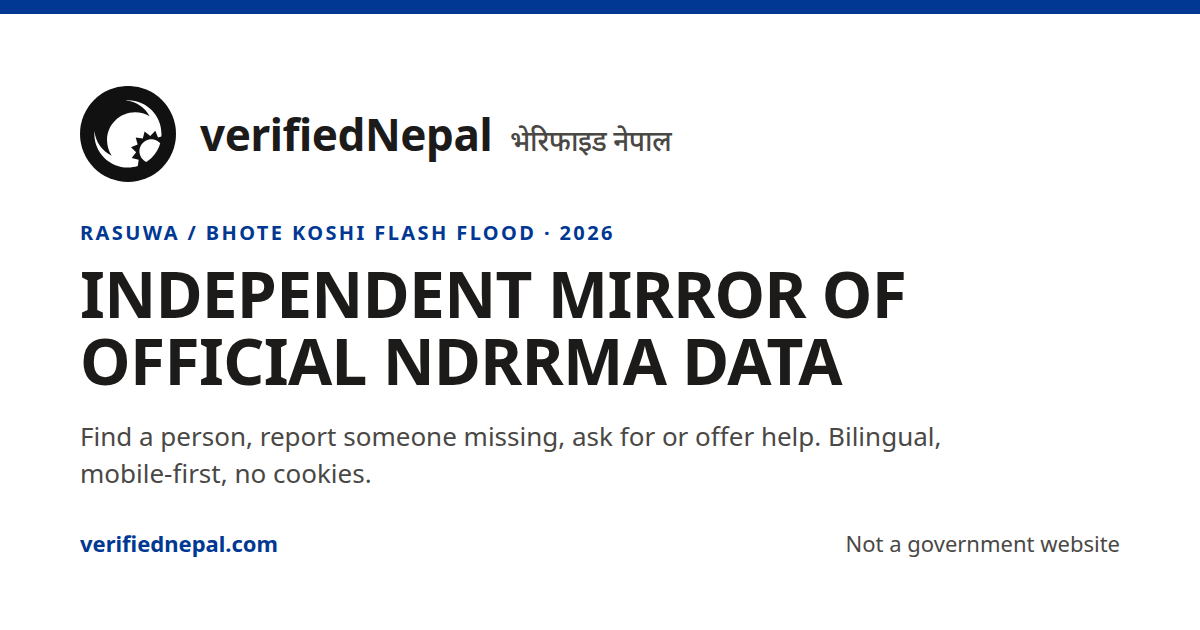
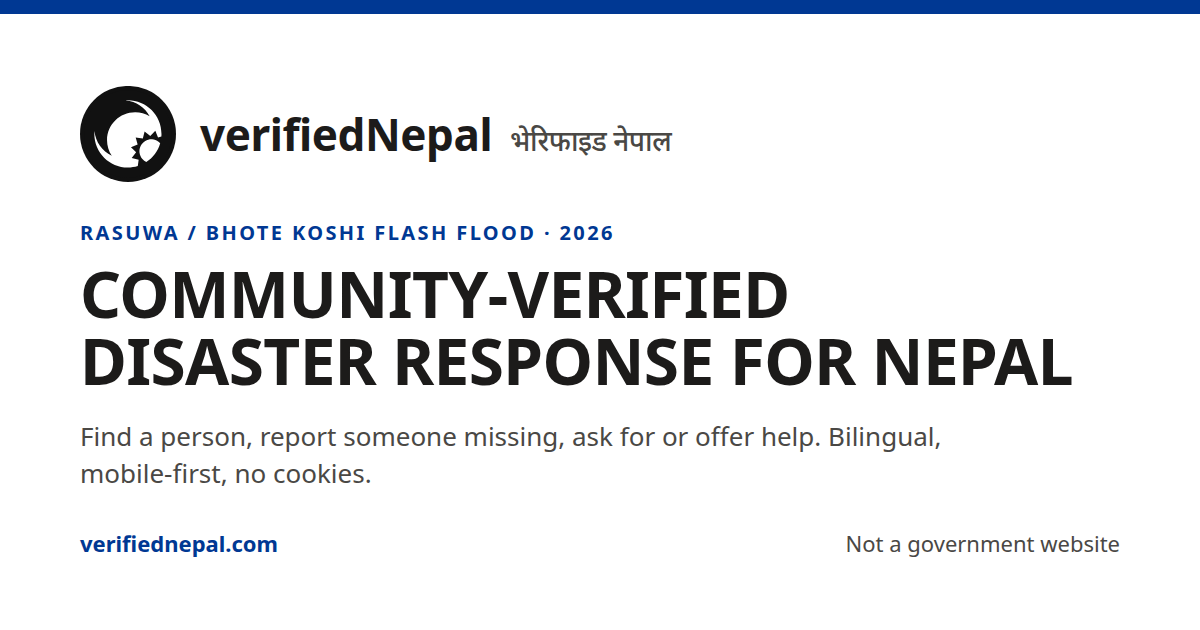
feat(seo): distinct share cards for poster, missing, get-help, give-help, drop-centers, projects
Each public page now gets its own catchy Open Graph/Twitter card instead of
falling back to the generic site card, matching the pattern already used by
/articles/:id and /climate. Project detail pages use their own published
cover photo when one exists; drop-center detail pages reuse the generic
drop-centers card since centers have no photos. Also updates the main card's
headline and extracts the shared HTMLRewriter logic (applyMeta/apiBase) out
of articles/[id].ts and climate.ts to avoid duplicating it across 8 files.

Claude-Session: https://claude.ai/code/session_01GmR36vwUtDH41y3Ly4qzz9

Changed region(s): [[0.0617, 0.4222, 0.8942, 0.6333]]

diff --git a/src/lib/og-meta.ts b/src/lib/og-meta.ts
@@ -13,6 +13,18 @@ export interface DispatchLike {
   cover?: { url?: string; caption?: string };
 }
 
+export interface ProjectLike {
+  title: Localized;
+  description: Localized;
+  photos?: Array<{ url: string; caption?: string; status: "pending" | "published" }>;
+}
+
+export interface CenterLike {
+  name: string;
+  district: string;
+  status: "open" | "paused" | "closed";
+}
+
 export interface ShareMeta {
   title: string;
   description: string;
@@ -35,6 +47,57 @@ export function dispatchMeta(item: DispatchLike): ShareMeta {
     ? { title: `${title} · verifiedNepal`, description, image, imageAlt: item.cover?.caption?.trim() || title }
     : { title: `${title} · verifiedNepal`, description };
 }
+
+export function projectMeta(project: ProjectLike): ShareMeta {
+  const title = text(project.title).trim() || "Community project";
+  const description = text(project.description).replace(/\s+/g, " ").trim().slice(0, 200);
+  const cover = project.photos?.find((photo) => photo.status === "published" && photo.url?.trim());
+  return cover
+    ? { title: `${title} · verifiedNepal`, description, image: cover.url.trim(), imageAlt: cover.caption?.trim() || title }
+    : { title: `${title} · verifiedNepal`, description };
+}
+
+export function centerMeta(center: CenterLike): ShareMeta {
+  const statusWord = center.status === "open" ? "Open" : center.status === "paused" ? "Paused" : "Closed";
+  return {
+    title: `${center.name} · verifiedNepal`,
+    description: `${statusWord} drop center in ${center.district}. See live stock and recent activity, or bring goods to donate.`,
+  };
+}
+
+/** Static per-page share cards for public pages with no per-request data. Image paths are site-relative. */
+export const STATIC_PAGE_META: Record<string, ShareMeta> = {
+  poster: {
+    title: "Missing-person posters · verifiedNepal",
+    description: "Make a bilingual missing-person poster in minutes and share it — or browse posters and call if you recognise someone.",
+    image: "/brand/og-poster.png",
+  },
+  missing: {
+    title: "Someone missing? Do this first · verifiedNepal",
+    description: "A volunteer-written guide to the official channels and helplines, in the order that helps most.",
+    image: "/brand/og-missing.png",
+  },
+  getHelp: {
+    title: "Get help — register a need · verifiedNepal",
+    description: "Register a need in minutes — a moderator reviews it before anything goes public. Your name stays masked.",
+    image: "/brand/og-get-help.png",
+  },
+  giveHelp: {
+    title: "Give help · verifiedNepal",
+    description: "Verified requests with masked identities — respond to a need or register an offer, connected through a moderator.",
+    image: "/brand/og-give-help.png",
+  },
+  dropCenters: {
+    title: "Drop centers · verifiedNepal",
+    description: "Live stock and activity from independent relief centers across Nepal — food, water and shelter goods, logged in the open.",
+    image: "/brand/og-drop-centers.png",
+  },
+  projects: {
+    title: "Community projects · verifiedNepal",
+    description: "Verified infrastructure projects — tuin, bridges, trails, water and schools. Money goes straight to local committees.",
+    image: "/brand/og-projects.png",
+  },
+};
 
 export function climateMeta(): ShareMeta {
   const countryList = countries as typeof countries &

diff --git a/docs/design/og-poster.html b/docs/design/og-poster.html
@@ -2,20 +2,20 @@
 <link href="https://fonts.googleapis.com/css2?family=Noto+Sans:wght@400;500;700&family=Noto+Sans+Devanagari:wght@500&display=swap" rel="stylesheet">
 <style>
 html,body{margin:0;width:1200px;height:630px;background:#fff;font-family:"Noto Sans","Noto Sans Devanagari",system-ui,sans-serif;color:#1C1B1A}
-.card{box-sizing:border-box;width:1200px;height:630px;padding:72px 80px;display:flex;flex-direction:column;justify-content:space-between;border-top:14px solid #003893}
+.card{box-sizing:border-box;width:1200px;height:630px;padding:72px 80px;display:flex;flex-direction:column;justify-content:space-between;border-top:14px solid #B82020}
 .brand{display:flex;align-items:center;gap:24px}
 .brand img{width:96px;height:96px}
 .wordmark{font-size:44px;font-weight:700;letter-spacing:-.01em}
 .wordmark span{font-family:"Noto Sans Devanagari";font-weight:500;font-size:28px;color:#4a4845;margin-left:18px}
-.kicker{font-size:20px;font-weight:700;letter-spacing:.12em;color:#003893;text-transform:uppercase;margin-bottom:14px}
+.kicker{font-size:20px;font-weight:700;letter-spacing:.12em;color:#B82020;text-transform:uppercase;margin-bottom:14px}
 h1{font-size:64px;line-height:1.05;font-weight:700;margin:0 0 24px;text-transform:uppercase;letter-spacing:-.01em;max-width:1000px}
 p{font-size:26px;line-height:1.4;color:#4a4845;margin:0;max-width:920px}
 .foot{display:flex;justify-content:space-between;font-size:22px;color:#4a4845}
 .foot b{color:#003893;font-weight:700}
 </style></head><body><div class="card">
 <div class="brand"><img src="../../public/brand/logo-mark.svg"><div class="wordmark">verifiedNepal<span>भेरिफाइड नेपाल</span></div></div>
-<div><div class="kicker">Rasuwa / Bhote Koshi flash flood · 2026</div>
-<h1>Community-verified disaster response for Nepal</h1>
-<p>Find a person, report someone missing, ask for or offer help. Bilingual, mobile-first, no cookies.</p></div>
+<div><div class="kicker">Missing-person posters</div>
+<h1>Every face has a name. Help find it.</h1>
+<p>Make a bilingual missing-person poster in minutes and share it — or browse posters and call if you recognise someone.</p></div>
 <div class="foot"><b>verifiednepal.com</b><span>Not a government website</span></div>
 </div></body></html>

diff --git a/docs/design/og-get-help.html b/docs/design/og-get-help.html
@@ -2,20 +2,20 @@
 <link href="https://fonts.googleapis.com/css2?family=Noto+Sans:wght@400;500;700&family=Noto+Sans+Devanagari:wght@500&display=swap" rel="stylesheet">
 <style>
 html,body{margin:0;width:1200px;height:630px;background:#fff;font-family:"Noto Sans","Noto Sans Devanagari",system-ui,sans-serif;color:#1C1B1A}
-.card{box-sizing:border-box;width:1200px;height:630px;padding:72px 80px;display:flex;flex-direction:column;justify-content:space-between;border-top:14px solid #003893}
+.card{box-sizing:border-box;width:1200px;height:630px;padding:72px 80px;display:flex;flex-direction:column;justify-content:space-between;border-top:14px solid #B82020}
 .brand{display:flex;align-items:center;gap:24px}
 .brand img{width:96px;height:96px}
 .wordmark{font-size:44px;font-weight:700;letter-spacing:-.01em}
 .wordmark span{font-family:"Noto Sans Devanagari";font-weight:500;font-size:28px;color:#4a4845;margin-left:18px}
-.kicker{font-size:20px;font-weight:700;letter-spacing:.12em;color:#003893;text-transform:uppercase;margin-bottom:14px}
+.kicker{font-size:20px;font-weight:700;letter-spacing:.12em;color:#B82020;text-transform:uppercase;margin-bottom:14px}
 h1{font-size:64px;line-height:1.05;font-weight:700;margin:0 0 24px;text-transform:uppercase;letter-spacing:-.01em;max-width:1000px}
 p{font-size:26px;line-height:1.4;color:#4a4845;margin:0;max-width:920px}
 .foot{display:flex;justify-content:space-between;font-size:22px;color:#4a4845}
 .foot b{color:#003893;font-weight:700}
 </style></head><body><div class="card">
 <div class="brand"><img src="../../public/brand/logo-mark.svg"><div class="wordmark">verifiedNepal<span>भेरिफाइड नेपाल</span></div></div>
-<div><div class="kicker">Rasuwa / Bhote Koshi flash flood · 2026</div>
-<h1>Community-verified disaster response for Nepal</h1>
-<p>Find a person, report someone missing, ask for or offer help. Bilingual, mobile-first, no cookies.</p></div>
+<div><div class="kicker">Need support?</div>
+<h1>Ask for help. No account needed.</h1>
+<p>Register a need in minutes — a moderator reviews it before anything goes public. Your name stays masked.</p></div>
 <div class="foot"><b>verifiednepal.com</b><span>Not a government website</span></div>
 </div></body></html>

diff --git a/docs/design/og-missing.html b/docs/design/og-missing.html
@@ -2,20 +2,20 @@
 <link href="https://fonts.googleapis.com/css2?family=Noto+Sans:wght@400;500;700&family=Noto+Sans+Devanagari:wght@500&display=swap" rel="stylesheet">
 <style>
 html,body{margin:0;width:1200px;height:630px;background:#fff;font-family:"Noto Sans","Noto Sans Devanagari",system-ui,sans-serif;color:#1C1B1A}
-.card{box-sizing:border-box;width:1200px;height:630px;padding:72px 80px;display:flex;flex-direction:column;justify-content:space-between;border-top:14px solid #003893}
+.card{box-sizing:border-box;width:1200px;height:630px;padding:72px 80px;display:flex;flex-direction:column;justify-content:space-between;border-top:14px solid #B82020}
 .brand{display:flex;align-items:center;gap:24px}
 .brand img{width:96px;height:96px}
 .wordmark{font-size:44px;font-weight:700;letter-spacing:-.01em}
 .wordmark span{font-family:"Noto Sans Devanagari";font-weight:500;font-size:28px;color:#4a4845;margin-left:18px}
-.kicker{font-size:20px;font-weight:700;letter-spacing:.12em;color:#003893;text-transform:uppercase;margin-bottom:14px}
+.kicker{font-size:20px;font-weight:700;letter-spacing:.12em;color:#B82020;text-transform:uppercase;margin-bottom:14px}
 h1{font-size:64px;line-height:1.05;font-weight:700;margin:0 0 24px;text-transform:uppercase;letter-spacing:-.01em;max-width:1000px}
 p{font-size:26px;line-height:1.4;color:#4a4845;margin:0;max-width:920px}
 .foot{display:flex;justify-content:space-between;font-size:22px;color:#4a4845}
 .foot b{color:#003893;font-weight:700}
 </style></head><body><div class="card">
 <div class="brand"><img src="../../public/brand/logo-mark.svg"><div class="wordmark">verifiedNepal<span>भेरिफाइड नेपाल</span></div></div>
-<div><div class="kicker">Rasuwa / Bhote Koshi flash flood · 2026</div>
-<h1>Community-verified disaster response for Nepal</h1>
-<p>Find a person, report someone missing, ask for or offer help. Bilingual, mobile-first, no cookies.</p></div>
+<div><div class="kicker">Someone missing?</div>
+<h1>The first steps that actually help</h1>
+<p>A volunteer-written guide to the official channels and helplines, in the order that helps most.</p></div>
 <div class="foot"><b>verifiednepal.com</b><span>Not a government website</span></div>
 </div></body></html>

diff --git a/functions/articles/[id].ts b/functions/articles/[id].ts
@@ -4,14 +4,9 @@
 // falls back to the untouched page. Wrangler picks this folder up automatically
 // on `pages deploy` (see infra/deploy.sh).
 import { dispatchMeta } from "../../src/lib/og-meta";
+import { apiBase, applyMeta } from "../_shared/meta";
 
 type Ctx = { request: Request; params: { id: string }; next: () => Promise<Response> };
-
-function apiBase(hostname: string): string {
-  return hostname === "verifiednepal.com" || hostname === "www.verifiednepal.com"
-    ? "https://api.prod.verifiednepal.com"
-    : "https://api.dev.verifiednepal.com";
-}
 
 export const onRequestGet = async ({ request, params, next }: Ctx): Promise<Response> => {
   const page = await next();
@@ -29,21 +24,5 @@ export const onRequestGet = async ({ request, params, next }: Ctx): Promise<Resp
   }
   const meta = dispatchMeta(item);
   const canonical = `${url.origin}/articles/${encodeURIComponent(params.id)}`;
-  const set = (attr: string, value: string) => ({ element: (e: Element) => e.setAttribute(attr, value) });
-  const rewriter = new HTMLRewriter()
-    .on("title", { element: (e: Element) => e.setInnerContent(meta.title) })
-    .on('meta[property="og:title"], meta[name="twitter:title"]', set("content", meta.title))
-    .on('meta[name="description"], meta[property="og:description"], meta[name="twitter:description"]', set("content", meta.description))
-    .on('meta[property="og:url"]', set("content", canonical))
-    .on('meta[property="og:type"]', set("content", "article"))
-    .on('link[rel="canonical"]', set("href", canonical));
-  if (meta.image) {
-    rewriter
-      .on('meta[property="og:image"]', set("content", meta.image))
-      .on('meta[property="og:image:alt"]', set("content", meta.imageAlt || meta.title))
-      .on('meta[name="twitter:image"]', set("content", meta.image))
-      .on('meta[name="twitter:card"]', set("content", "summary_large_image"))
-      .on('meta[property="og:image:width"], meta[property="og:image:height"]', { element: (e: Element) => e.remove() });
-  }
-  return rewriter.transform(page);
+  return applyMeta(page, meta, canonical, "article");
 };

diff --git a/functions/_shared/meta.ts b/functions/_shared/meta.ts
@@ -1,0 +1,35 @@
+// Shared by every Pages Function that rewrites index.html's share metadata.
+// Underscore-prefixed folder: Cloudflare Pages excludes it from routing, so this
+// is import-only, never a route of its own.
+import type { ShareMeta } from "../../src/lib/og-meta";
+
+export function apiBase(hostname: string): string {
+  return hostname === "verifiednepal.com" || hostname === "www.verifiednepal.com"
+    ? "https://api.prod.verifiednepal.com"
+    : "https://api.dev.verifiednepal.com";
+}
+
+/** Resolves a site-relative image path (e.g. "/brand/og-poster.png") to an absolute URL. */
+export function withOrigin(meta: ShareMeta, origin: string): ShareMeta {
+  return meta.image && meta.image.startsWith("/") ? { ...meta, image: `${origin}${meta.image}` } : meta;
+}
+
+export function applyMeta(page: Response, meta: ShareMeta, canonical: string, type: "website" | "article" = "website"): Response {
+  const set = (attr: string, value: string) => ({ element: (e: Element) => e.setAttribute(attr, value) });
+  const rewriter = new HTMLRewriter()
+    .on("title", { element: (e: Element) => e.setInnerContent(meta.title) })
+    .on('meta[property="og:title"], meta[name="twitter:title"]', set("content", meta.title))
+    .on('meta[name="description"], meta[property="og:description"], meta[name="twitter:description"]', set("content", meta.description))
+    .on('meta[property="og:url"]', set("content", canonical))
+    .on('meta[property="og:type"]', set("content", type))
+    .on('link[rel="canonical"]', set("href", canonical));
+  if (meta.image) {
+    rewriter
+      .on('meta[property="og:image"]', set("content", meta.image))
+      .on('meta[property="og:image:alt"]', set("content", meta.imageAlt || meta.title))
+      .on('meta[name="twitter:image"]', set("content", meta.image))
+      .on('meta[name="twitter:card"]', set("content", "summary_large_image"))
+      .on('meta[property="og:image:width"], meta[property="og:image:height"]', { element: (e: Element) => e.remove() });
+  }
+  return rewriter.transform(page);
+}

diff --git a/src/lib/og-meta.test.ts b/src/lib/og-meta.test.ts
@@ -1,6 +1,6 @@
 import assert from "node:assert/strict";
 import test from "node:test";
-import { climateMeta, dispatchMeta } from "./og-meta.ts";
+import { centerMeta, climateMeta, dispatchMeta, projectMeta } from "./og-meta.ts";
 
 test("dispatchMeta builds a title and a 200-char excerpt with author", () => {
   const meta = dispatchMeta({
@@ -38,4 +38,29 @@ test("climateMeta includes the computed share and Nepal in the description", () 
   const meta = climateMeta();
   assert.match(meta.title, /%/);
   assert.match(meta.description, /Nepal/);
+});
+
+test("projectMeta uses the first published photo, skipping pending ones", () => {
+  const meta = projectMeta({
+    title: "Tuin over the Bhote Koshi",
+    description: "A cable crossing for three wards.",
+    photos: [
+      { url: "https://cdn.example/pending.jpg", status: "pending" },
+      { url: " https://cdn.example/published.jpg ", caption: "The finished crossing", status: "published" },
+    ],
+  });
+  assert.equal(meta.title, "Tuin over the Bhote Koshi · verifiedNepal");
+  assert.equal(meta.image, "https://cdn.example/published.jpg");
+  assert.equal(meta.imageAlt, "The finished crossing");
+});
+
+test("projectMeta has no image when there is no published photo", () => {
+  const meta = projectMeta({ title: "A project", description: "Details", photos: [{ url: "https://cdn.example/p.jpg", status: "pending" }] });
+  assert.equal(meta.image, undefined);
+});
+
+test("centerMeta names the district and open/paused/closed status", () => {
+  assert.match(centerMeta({ name: "Dhunche Bazaar", district: "Rasuwa", status: "open" }).description, /^Open drop center in Rasuwa\./);
+  assert.match(centerMeta({ name: "X", district: "Y", status: "paused" }).description, /^Paused/);
+  assert.match(centerMeta({ name: "X", district: "Y", status: "closed" }).description, /^Closed/);
 });

diff --git a/functions/climate.ts b/functions/climate.ts
@@ -1,6 +1,7 @@
 // Cloudflare Pages Function for /climate. Rewrites the static page metadata so
 // shared climate links preview the computed climate case instead of the site card.
 import { climateMeta } from "../src/lib/og-meta";
+import { applyMeta } from "./_shared/meta";
 
 type Ctx = { request: Request; next: () => Promise<Response> };
 
@@ -10,13 +11,5 @@ export const onRequestGet = async ({ request, next }: Ctx): Promise<Response> =>
   const url = new URL(request.url);
   const meta = climateMeta();
   const canonical = `${url.origin}/climate`;
-  const set = (attr: string, value: string) => ({ element: (e: Element) => e.setAttribute(attr, value) });
-  return new HTMLRewriter()
-    .on("title", { element: (e: Element) => e.setInnerContent(meta.title) })
-    .on('meta[property="og:title"], meta[name="twitter:title"]', set("content", meta.title))
-    .on('meta[name="description"], meta[property="og:description"], meta[name="twitter:description"]', set("content", meta.description))
-    .on('meta[property="og:url"]', set("content", canonical))
-    .on('meta[property="og:type"]', set("content", "website"))
-    .on('link[rel="canonical"]', set("href", canonical))
-    .transform(page);
+  return applyMeta(page, meta, canonical, "website");
 };

diff --git a/functions/drop-centers/[id].ts b/functions/drop-centers/[id].ts
@@ -1,0 +1,27 @@
+// Cloudflare Pages Function for /drop-centers/:id. Rewrites title/description with
+// the center's own name/district/status; centers have no cover photo, so the image
+// stays the generic drop-centers card.
+import { centerMeta, STATIC_PAGE_META } from "../../src/lib/og-meta";
+import { apiBase, applyMeta, withOrigin } from "../_shared/meta";
+
+type Ctx = { request: Request; params: { id: string }; next: () => Promise<Response> };
+
+export const onRequestGet = async ({ request, params, next }: Ctx): Promise<Response> => {
+  const page = await next();
+  if (!page.headers.get("content-type")?.includes("text/html")) return page;
+  const url = new URL(request.url);
+  let item;
+  try {
+    const res = await fetch(`${apiBase(url.hostname)}/centers/${encodeURIComponent(params.id)}`, {
+      cf: { cacheTtl: 300 },
+    } as RequestInit);
+    if (!res.ok) return page;
+    item = await res.json();
+  } catch {
+    return page;
+  }
+  const meta = centerMeta(item);
+  meta.image = withOrigin(STATIC_PAGE_META.dropCenters, url.origin).image;
+  const canonical = `${url.origin}/drop-centers/${encodeURIComponent(params.id)}`;
+  return applyMeta(page, meta, canonical, "website");
+};

diff --git a/functions/projects/[id].ts b/functions/projects/[id].ts
@@ -1,0 +1,26 @@
+// Cloudflare Pages Function for /projects/:id. Rewrites the static page's share
+// metadata with the project's own title, description and cover photo (if any).
+import { projectMeta, STATIC_PAGE_META } from "../../src/lib/og-meta";
+import { apiBase, applyMeta, withOrigin } from "../_shared/meta";
+
+type Ctx = { request: Request; params: { id: string }; next: () => Promise<Response> };
+
+export const onRequestGet = async ({ request, params, next }: Ctx): Promise<Response> => {
+  const page = await next();
+  if (!page.headers.get("content-type")?.includes("text/html")) return page;
+  const url = new URL(request.url);
+  let item;
+  try {
+    const res = await fetch(`${apiBase(url.hostname)}/projects/${encodeURIComponent(params.id)}`, {
+      cf: { cacheTtl: 300 },
+    } as RequestInit);
+    if (!res.ok) return page;
+    item = await res.json();
+  } catch {
+    return page;
+  }
+  const meta = projectMeta(item);
+  if (!meta.image) meta.image = withOrigin(STATIC_PAGE_META.projects, url.origin).image;
+  const canonical = `${url.origin}/projects/${encodeURIComponent(params.id)}`;
+  return applyMeta(page, meta, canonical, "article");
+};

diff --git a/docs/design/og-drop-centers.html b/docs/design/og-drop-centers.html
@@ -14,8 +14,8 @@ p{font-size:26px;line-height:1.4;color:#4a4845;margin:0;max-width:920px}
 .foot b{color:#003893;font-weight:700}
 </style></head><body><div class="card">
 <div class="brand"><img src="../../public/brand/logo-mark.svg"><div class="wordmark">verifiedNepal<span>भेरिफाइड नेपाल</span></div></div>
-<div><div class="kicker">Rasuwa / Bhote Koshi flash flood · 2026</div>
-<h1>Community-verified disaster response for Nepal</h1>
-<p>Find a person, report someone missing, ask for or offer help. Bilingual, mobile-first, no cookies.</p></div>
+<div><div class="kicker">Relief network</div>
+<h1>Find where to drop off or collect aid</h1>
+<p>Live stock and activity from independent relief centers across Nepal — food, water and shelter goods, logged in the open.</p></div>
 <div class="foot"><b>verifiednepal.com</b><span>Not a government website</span></div>
 </div></body></html>

diff --git a/docs/design/og-projects.html b/docs/design/og-projects.html
@@ -14,8 +14,8 @@ p{font-size:26px;line-height:1.4;color:#4a4845;margin:0;max-width:920px}
 .foot b{color:#003893;font-weight:700}
 </style></head><body><div class="card">
 <div class="brand"><img src="../../public/brand/logo-mark.svg"><div class="wordmark">verifiedNepal<span>भेरिफाइड नेपाल</span></div></div>
-<div><div class="kicker">Rasuwa / Bhote Koshi flash flood · 2026</div>
-<h1>Community-verified disaster response for Nepal</h1>
-<p>Find a person, report someone missing, ask for or offer help. Bilingual, mobile-first, no cookies.</p></div>
+<div><div class="kicker">Rebuild Nepal</div>
+<h1>Fund a bridge. Fund a school. Fund home.</h1>
+<p>Verified infrastructure projects — tuin, bridges, trails, water and schools. Money goes straight to local committees.</p></div>
 <div class="foot"><b>verifiednepal.com</b><span>Not a government website</span></div>
 </div></body></html>
